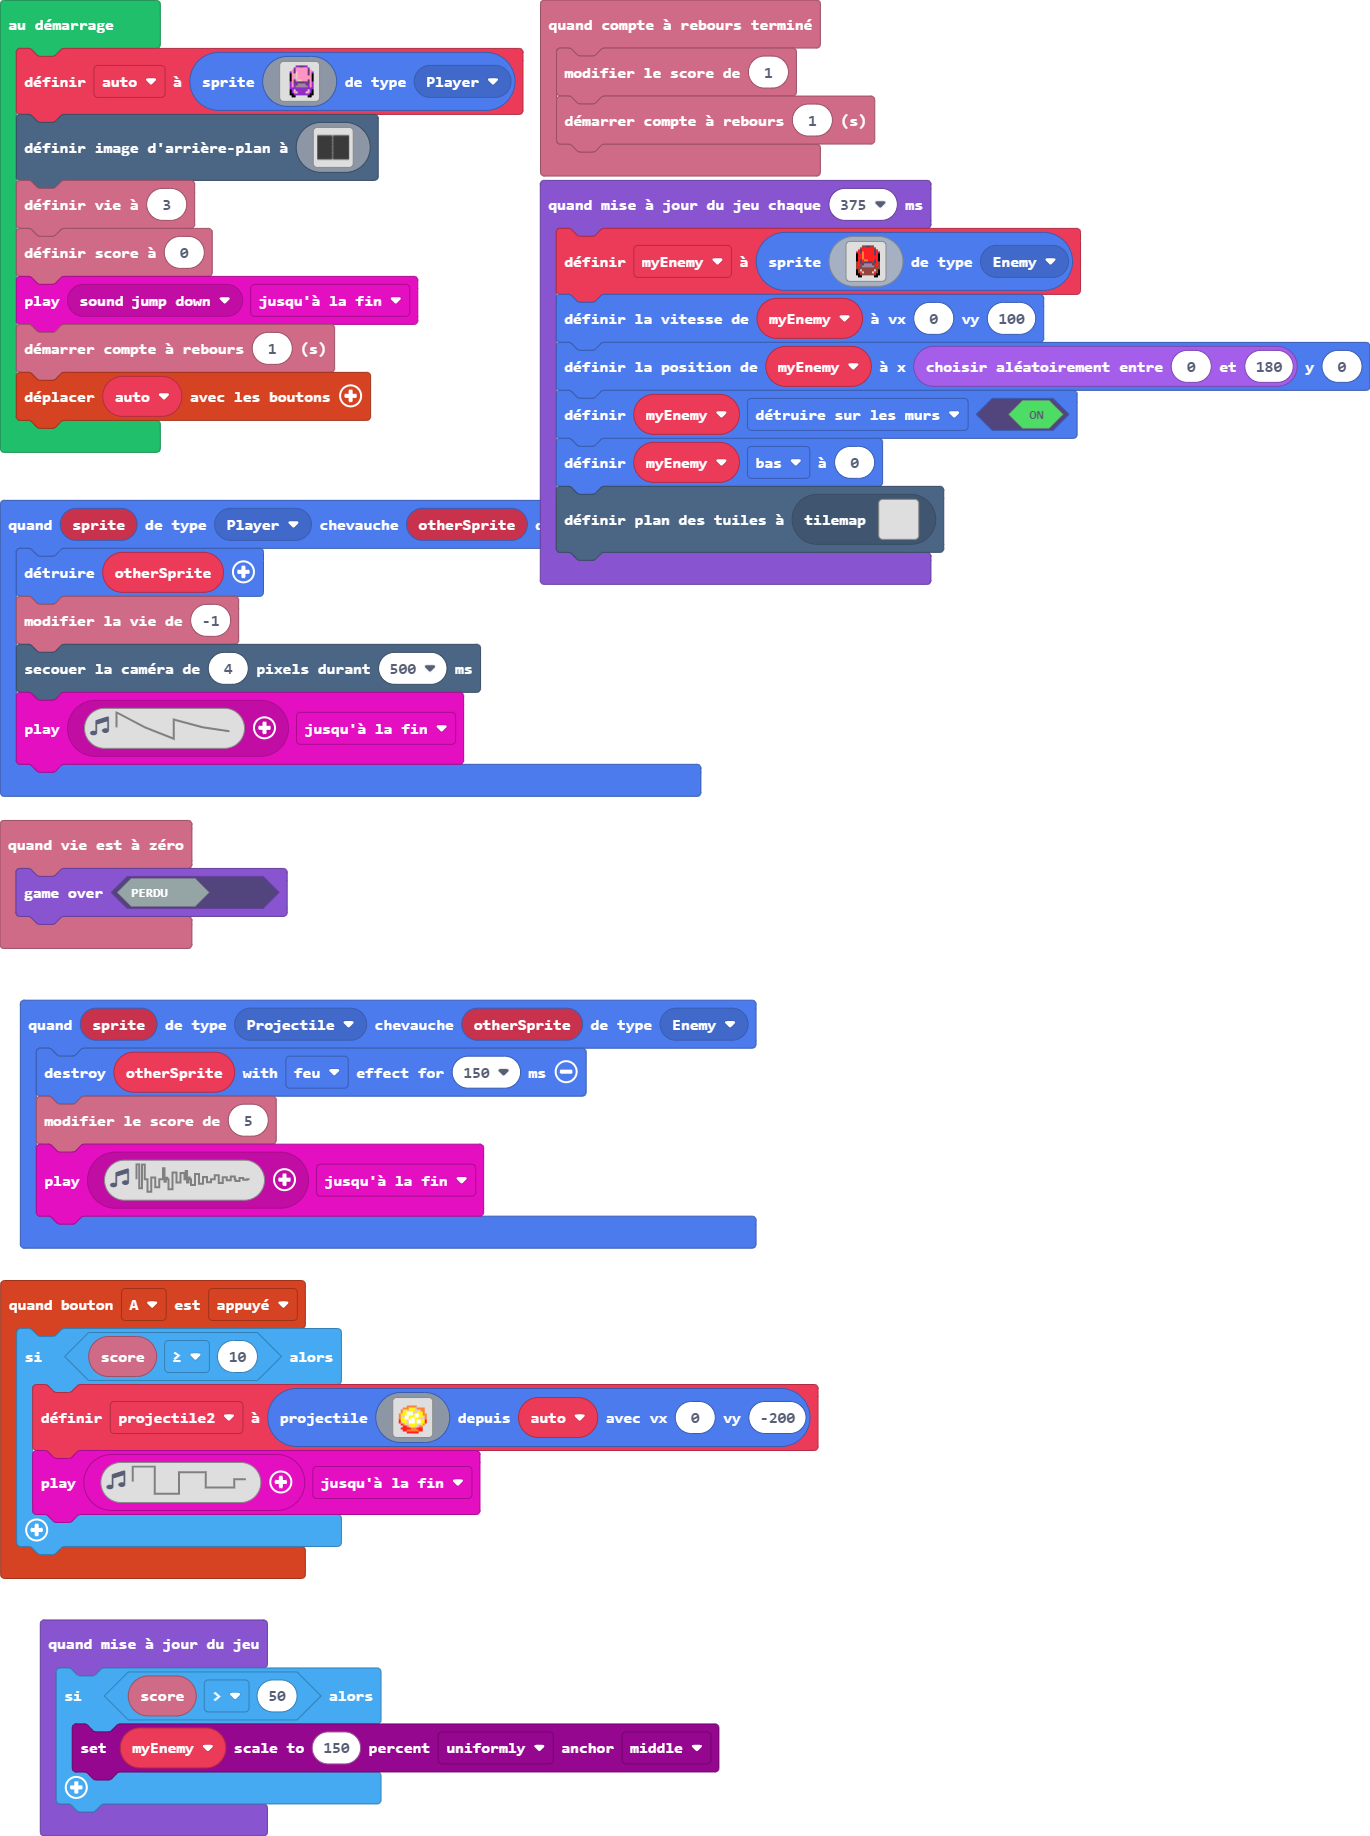
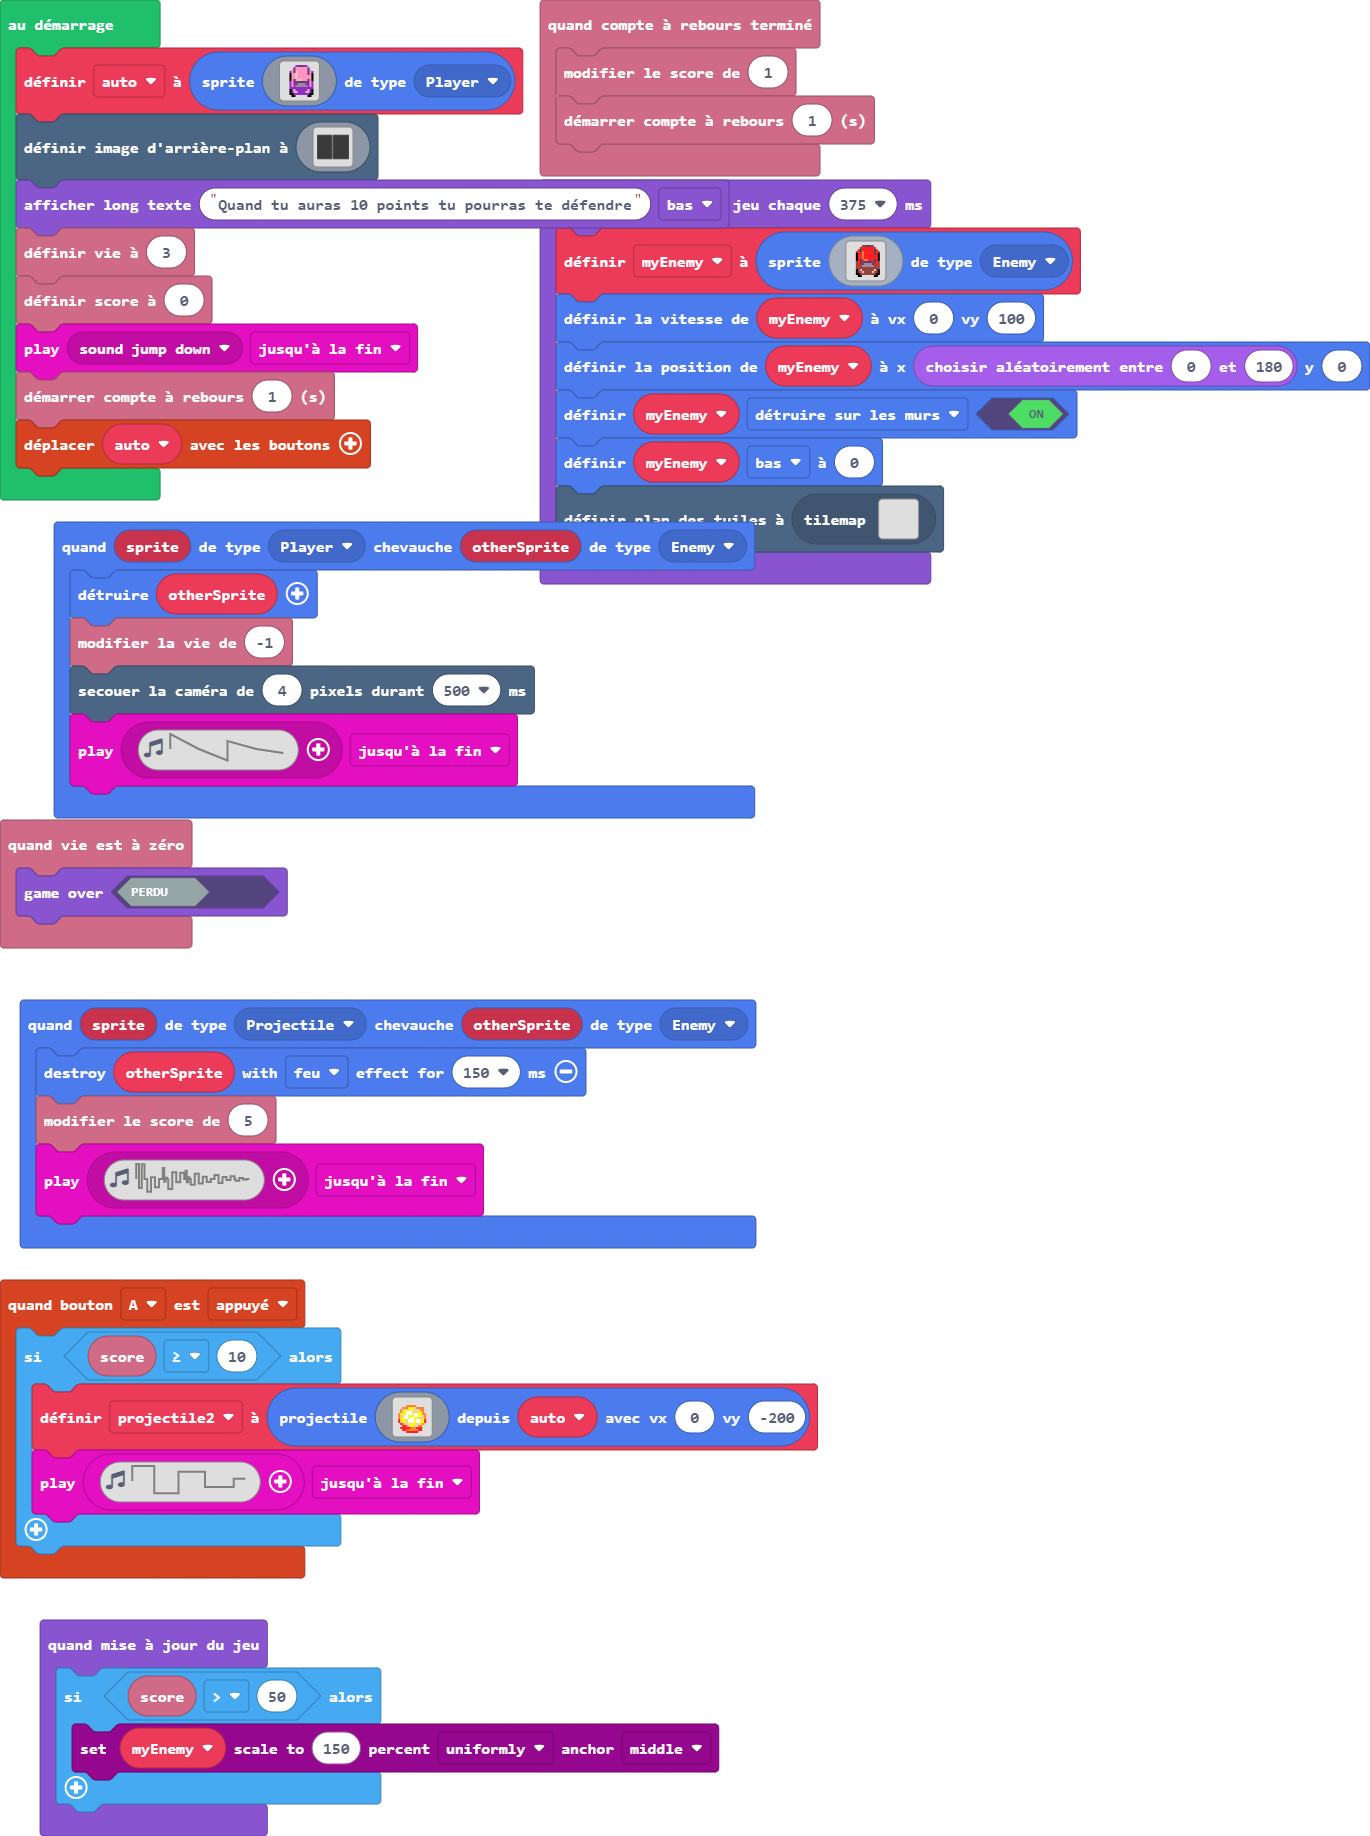
Mise à jour main.blocks, main.ts

diff --git a/main.ts b/main.ts
@@ -182,6 +182,7 @@ scene.setBackgroundImage(img`
[2 lines of base64/hex data omitted]
     `)
+game.showLongText("Quand tu auras 10 points tu pourras te défendre", DialogLayout.Bottom)
 info.setLife(3)
 info.setScore(0)
 music.play(music.melodyPlayable(music.jumpDown), music.PlaybackMode.UntilDone)
